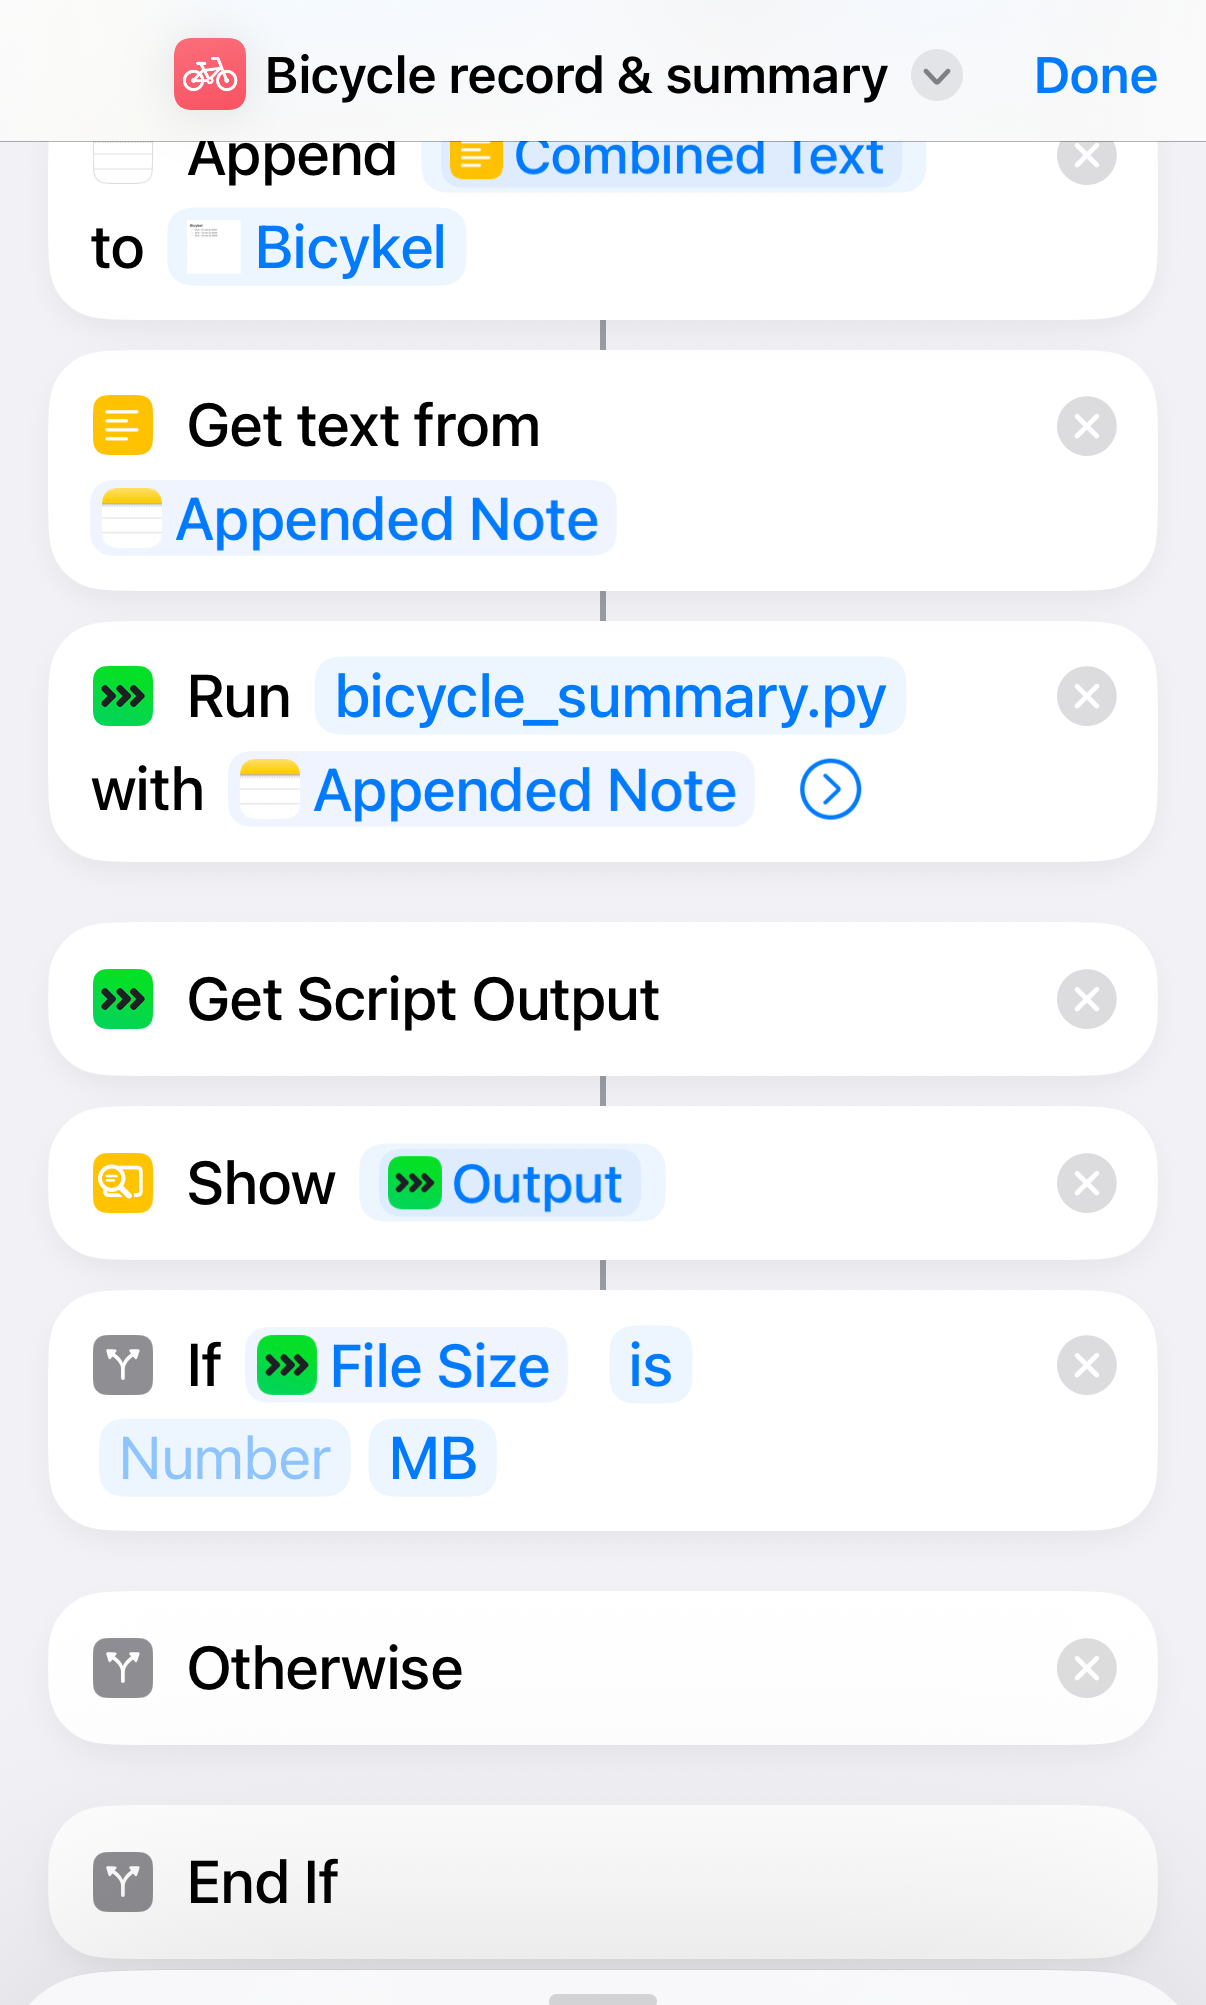
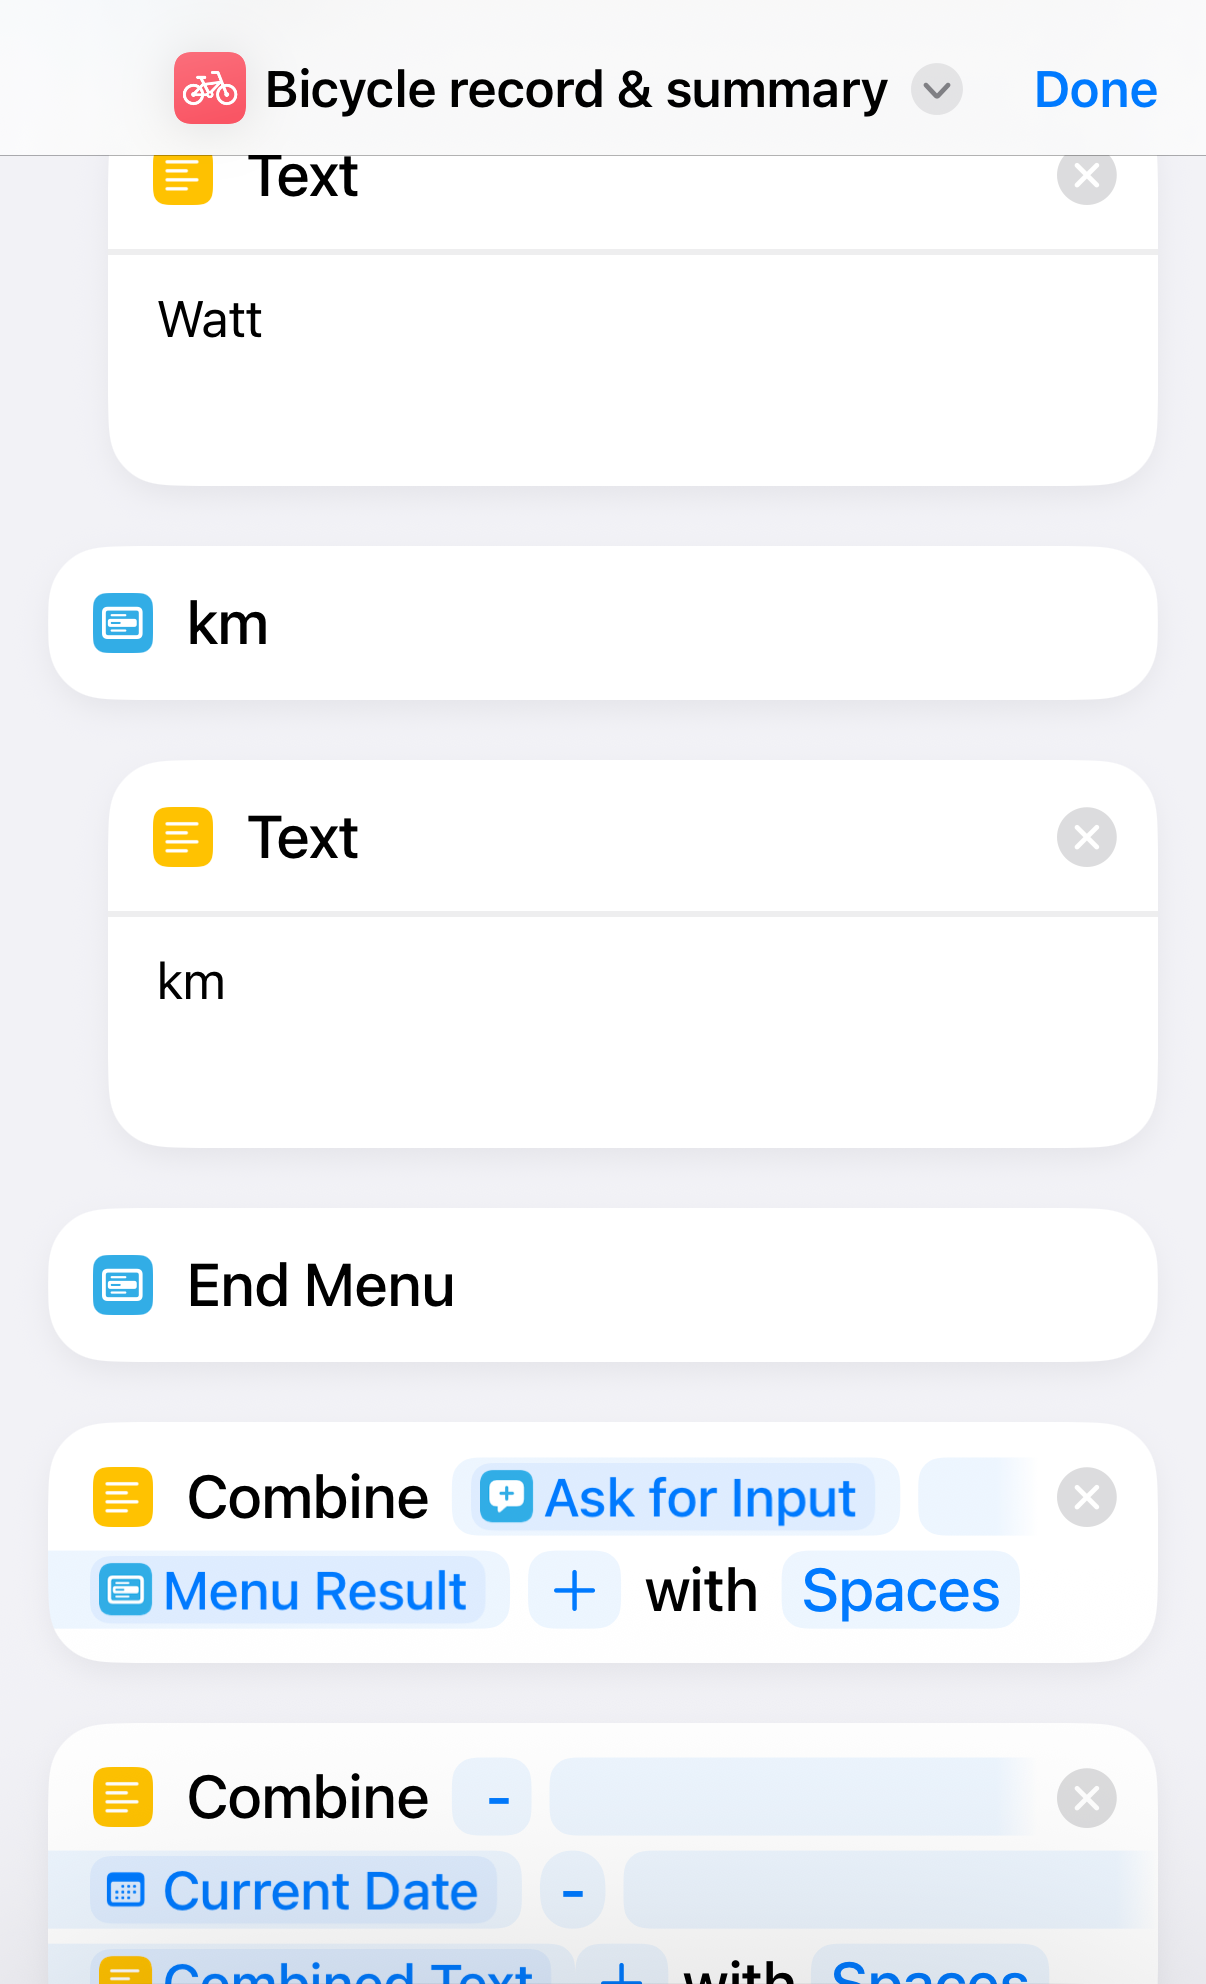
improve docu for bicycle record & summary

diff --git a/Bicycle/readme.md b/Bicycle/readme.md
@@ -18,4 +18,7 @@ Full source in `bicycle_summary.py`
 
 ![Bicycle record & summary - part1](img/bicycle_summary_1.png)
 
-![Bicycle record & summary - part2](img/bicycle_summary_2.jpg)
+![Bicycle record & summary - part2](img/bicycle_summary_2.png)
+
+![Bicycle record & summary - part3](img/bicycle_summary_3.png)
+
